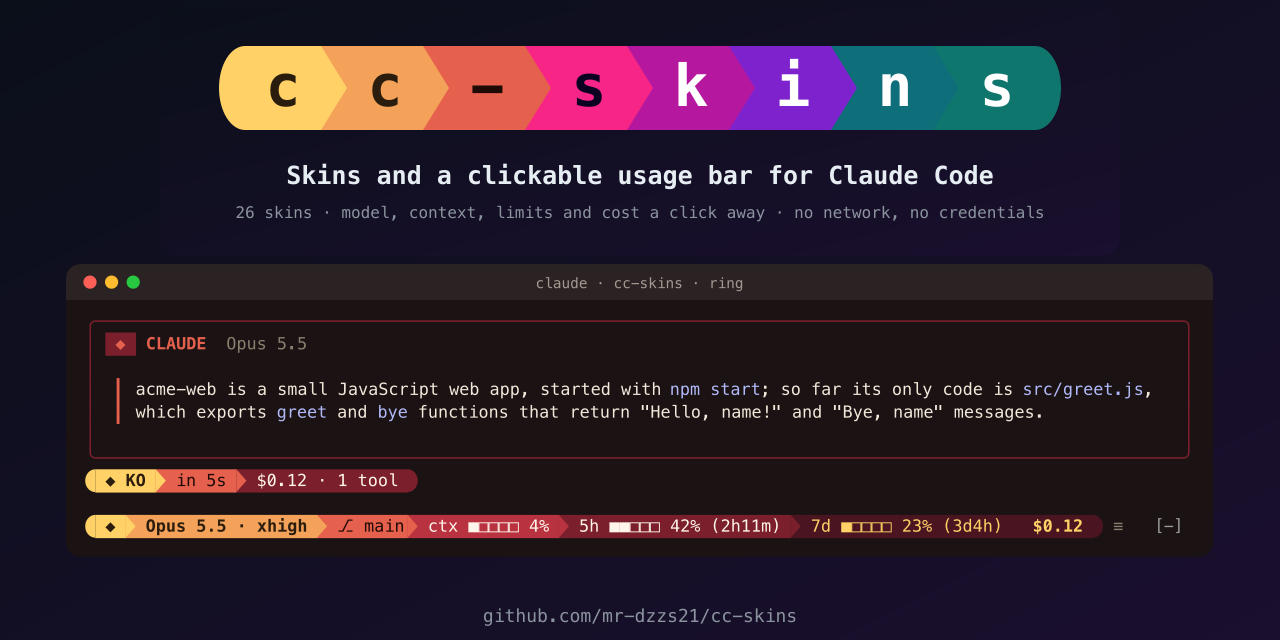
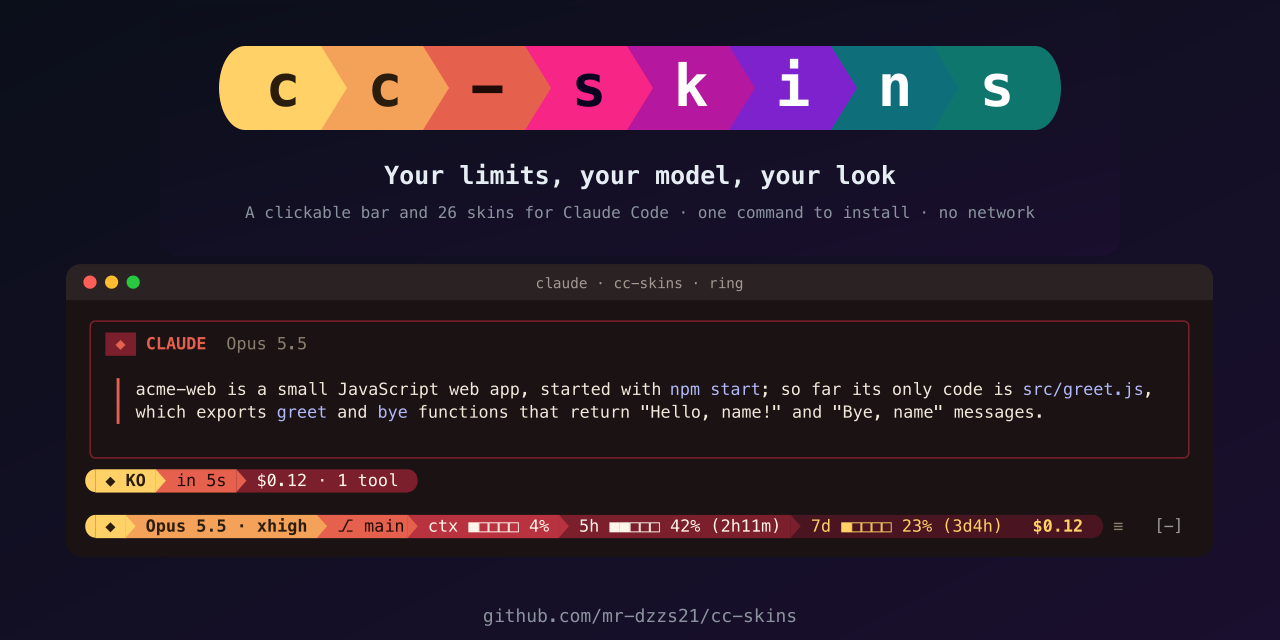
README: what it does first, one command to install
- The top says what you get, not what it is: see your limits, switch
  models in a click, make Claude Code yours. Three columns, See, Control,
  Look, right under the install.
- Install is one command, the same everywhere, over HTTPS:
  claude plugin install cc-skins --marketplace https://github.com/mr-dzzs21/cc-skins.git
  Fonts, colors, updating and removing fold away below.
- The banner and social preview say it too; CI installs with that command.

Changed region(s): [[0.1875, 0.25, 0.8125, 0.3438]]

diff --git a/scripts/render_previews.ts b/scripts/render_previews.ts
@@ -155,12 +155,12 @@ const renderBanner = (): string => {
   })
 
   return [
-    `<svg xmlns="http://www.w3.org/2000/svg" width="${width}" height="${height}" viewBox="0 0 ${width} ${height}" font-family="${FONTS}" role="img" aria-label="cc-skins: skins and a clickable usage bar for Claude Code">`,
+    `<svg xmlns="http://www.w3.org/2000/svg" width="${width}" height="${height}" viewBox="0 0 ${width} ${height}" font-family="${FONTS}" role="img" aria-label="cc-skins: your limits, your model, your look. A clickable bar and skins for Claude Code">`,
     `<defs><linearGradient id="night" x1="0" y1="0" x2="1" y2="1"><stop offset="0" stop-color="#0b0f1a"/><stop offset="1" stop-color="#1a0f2e"/></linearGradient></defs>`,
     `<rect width="${width}" height="${height}" rx="18" fill="url(#night)"/>`,
     ...parts,
-    `<text x="${width / 2}" y="${y + tall + 54}" fill="#e6edf3" font-size="25" font-weight="700" text-anchor="middle">Skins and a clickable usage bar for Claude Code</text>`,
-    `<text x="${width / 2}" y="${y + tall + 88}" fill="#8b949e" font-size="16" text-anchor="middle">${Object.keys(SKINS).length} skins · model, context, limits and cost a click away · no network, no credentials</text>`,
+    `<text x="${width / 2}" y="${y + tall + 54}" fill="#e6edf3" font-size="25" font-weight="700" text-anchor="middle">Your limits, your model, your look</text>`,
+    `<text x="${width / 2}" y="${y + tall + 88}" fill="#8b949e" font-size="16" text-anchor="middle">A clickable bar and ${Object.keys(SKINS).length} skins for Claude Code · one command to install · no network</text>`,
     `</svg>`,
     '',
   ].join('\n')

diff --git a/README.md b/README.md
@@ -2,77 +2,71 @@
 
 <p align="center">
   <a href="https://github.com/mr-dzzs21/cc-skins/actions/workflows/ci.yml"><img src="https://github.com/mr-dzzs21/cc-skins/actions/workflows/ci.yml/badge.svg" alt="CI"></a>
-  <a href="LICENSE"><img src="https://img.shields.io/badge/license-MIT-blue.svg" alt="License: MIT"></a>
-  <img src="https://img.shields.io/badge/Claude_Code-2.1.295%2B-d97757.svg" alt="Claude Code 2.1.295 or newer">
   <img src="https://img.shields.io/badge/macOS_·_Windows_·_Linux-555.svg" alt="macOS, Windows, Linux">
   <img src="https://img.shields.io/badge/network-none-2ea043.svg" alt="No network">
+  <a href="LICENSE"><img src="https://img.shields.io/badge/license-MIT-blue.svg" alt="License: MIT"></a>
 </p>
 
-<p align="center"><b>Skins and a clickable usage bar for <a href="https://code.claude.com">Claude Code</a>.</b><br>
-Your chat as cards, a bar that keeps model, context, limits and cost in view, one click to change what you see.</p>
+<h3 align="center">See your limits. Switch models in a click. Make Claude Code yours.</h3>
 
 <p align="center"><img src="docs/hero.svg" alt="A real Claude Code session with cc-skins: your message and Claude's reply as framed cards, the turn line with its cost, and the usage bar above the prompt, fading through nine skins" width="100%"></p>
-<p align="center"><sub>A real session, recorded in nine of the 26 skins.</sub></p>
-
-<p align="center">
-  <a href="#install"><b>Install</b></a> ·
-  <a href="#a-quick-tour"><b>Tour</b></a> ·
-  <a href="#skins"><b>Skins</b></a> ·
-  <a href="#commands"><b>Commands</b></a> ·
-  <a href="#help"><b>Help</b></a> ·
-  <a href="docs/README.md"><b>Docs</b></a>
-</p>
+<p align="center"><sub>A real session, in nine of the 26 skins.</sub></p>
 
 ## Install
 
-**1. Get Claude Code** 2.1.295 or newer ([setup guide](https://code.claude.com/docs)). Already have it? `claude update`, and `claude --version` tells which you have. The stable update channel can be a week or two behind: switch to latest in `/config` → Auto-update channel (with Homebrew: the `claude-code@latest` cask).
-
-| macOS, Linux | Windows (PowerShell) |
-|---|---|
-| `curl -fsSL https://claude.ai/install.sh \| bash` | `irm https://claude.ai/install.ps1 \| iex` |
-
-**2. Install cc-skins**, the same on every system. In Claude Code, type:
-
-```
-/plugin install cc-skins --marketplace mr-dzzs21/cc-skins
-```
-
-Answer `y` to add the marketplace and pick the **user** scope, so every project gets it. Or from a terminal:
+One command, the same on macOS, Windows and Linux:
 
 ```sh
-claude plugin marketplace add https://github.com/mr-dzzs21/cc-skins.git
-claude plugin install cc-skins@cc-skins
+claude plugin install cc-skins --marketplace https://github.com/mr-dzzs21/cc-skins.git
 ```
 
-**3. Pick a skin:** type `/skin`. ↑↓ previews each skin as you land on it, Enter picks it.
+Then open Claude Code and type **`/skin`** to pick a look. That's it.
 
-**4. Optional, for the full look:** icons from a [Nerd Font](https://www.nerdfonts.com), and colors for the rest of the window.
+<sub>Needs Claude Code 2.1.295 or newer: `claude update` gets it. More options, updating and removing: <a href="#more-about-installing">below</a>.</sub>
 
-| | Icons | Colors |
-|---|---|---|
-| **macOS** | `brew install --cask font-meslo-lg-nerd-font`, pick *MesloLGM Nerd Font* in your terminal | Ghostty or iTerm2 scheme from [`extras/terminal`](extras/terminal) |
-| **Windows** | Works with Windows Terminal's Cascadia Code as it is (arrows, short words for icons). For icons: *CaskaydiaCove Nerd Font* from [nerdfonts.com](https://www.nerdfonts.com/font-downloads), then Windows Terminal → Settings → your profile → Appearance → Font face | |
-| **Linux** | A Nerd Font from [nerdfonts.com](https://www.nerdfonts.com/font-downloads) into `~/.local/share/fonts`, `fc-cache -f`, pick it in your terminal | Ghostty scheme from [`extras/terminal`](extras/terminal) |
+## What you get
 
-With a Nerd Font set, type `/skin glyphs nerd`. For Claude Code's own colors, open `/theme` and pick `cc-skins · <your skin>`.
+<table>
+<tr>
+<td width="33%" valign="top">
 
-| To | Do |
-|---|---|
-| Update | `claude plugin marketplace update cc-skins` and `claude plugin update cc-skins@cc-skins`, then restart Claude Code |
-| Hide it for a moment | `/skin hud off` (the bar) and `/skin chat off` (the cards); `on` brings them back |
-| Turn it off | `claude plugin disable cc-skins@cc-skins` (`enable` turns it back on) |
-| Uninstall | `claude plugin uninstall cc-skins@cc-skins` |
+### 👀 See
 
-## Why cc-skins
+- Your **5-hour and 7-day limits**, with when they reset
+- How full the **context** is
+- **Model**, **effort** and **cost**
+- Your **git branch**, and what changed
+- What each answer took: time, cost, tools
 
-- **A bar you can click.** Model and effort, branch, context, the 5-hour and 7-day limits, cost: each block opens what it shows.
-- **The whole UI, not one line.** Chat cards, the spinner's and turn line's words, a matching color theme.
-- **No network, no credentials.** Every figure comes from Claude Code itself.
-- **Yours to shape.** Every block on or off, extras like git status or cost per hour, your own skins from one color.
+</td>
+<td width="33%" valign="top">
+
+### 🖱 Control
+
+- **Click the model** to switch model or effort
+- **Click the context** for a usage dashboard
+- **Compact** with one click when the context is full
+- **Click the branch** for the changed files
+- A **sound and a notification** when a long answer is done (if you want them)
+
+</td>
+<td width="33%" valign="top">
+
+### 🎨 Look
+
+- **26 skins**, dark, vivid and light
+- Your chat as **cards**, a spinner with its own words
+- **Build your own**: every piece its own color
+- **Share** a skin as one line
+- Turn **any piece** on or off
+
+</td>
+</tr>
+</table>
+
+No account, no API key, no network: everything comes from Claude Code itself.
 
 ## A quick tour
-
-Every picture here is a real Claude Code session, recorded in a terminal ([how](scripts/screens)).
 
 <table>
 <tr>
@@ -81,11 +75,11 @@ Every picture here is a real Claude Code session, recorded in a terminal ([how](
 
 ### Pick a skin
 
-`/skin`, or a click on the bar's first block. ↑↓ previews each skin as you land on it, in the picker and in the real bar; Enter picks. A skin's key or a click previews it too, and the same again picks it. Esc goes back to the one you had.
+`/skin`, or a click on the bar's first block. Use ↑↓ to preview each skin live, Enter to keep it.
 
 ### Make your own
 
-`/skin create` starts from the skin you wear. Make every color from one accent, or color each piece on its own: the model blue, the clock red, your name gold. Quicker: `/skin color clock red`. Every text stays readable, and `/skin export` shares your skin as one line of JSON.
+`/skin create`, or straight from the prompt: `/skin color clock red`. Every text stays readable, and `/skin export` shares your skin.
 
 </td>
 </tr>
@@ -93,69 +87,82 @@ Every picture here is a real Claude Code session, recorded in a terminal ([how](
 
 <table>
 <tr>
-<td width="50%"><b>Model and effort</b>: a click on the model<br><img src="docs/screens/model.svg" alt="The model and effort picker: the models with their aliases, the current one marked, and the effort levels as buttons" width="100%"></td>
-<td width="50%"><b>Usage dashboard</b>: a click on the context or cost<br><img src="docs/screens/dashboard.svg" alt="The usage dashboard: the context with its trend and a breakdown, the 5-hour and 7-day limits, the cost per turn, the session's totals" width="100%"></td>
+<td width="50%"><b>Switch model and effort</b><br><img src="docs/screens/model.svg" alt="The model and effort picker: the models with their aliases, the current one marked, and the effort levels as buttons" width="100%"></td>
+<td width="50%"><b>Usage dashboard</b><br><img src="docs/screens/dashboard.svg" alt="The usage dashboard: the context with its trend and a breakdown, the 5-hour and 7-day limits, the cost per turn, the session's totals" width="100%"></td>
 </tr>
 <tr>
-<td width="50%"><b>Settings</b>: a click on the ⚙, each piece on or off<br><img src="docs/screens/settings.svg" alt="The settings on the Bar tab: a checkbox for each piece of the bar" width="100%"></td>
-<td width="50%"><b>Alerts</b>: when to warn, and in which colors<br><img src="docs/screens/alerts.svg" alt="The settings on the Alerts tab: warn at 70, 80 or 90 percent, the compact button, the warning colors" width="100%"></td>
-</tr>
-<tr>
-<td width="50%"><b>Every piece its own color</b>: <code>/skin color</code><br><img src="docs/screens/builder-colors.svg" alt="The skin builder's bar colors: every block in a row in its colors, the model set to blue and the clock to red" width="100%"></td>
-<td width="50%"><b>Changed files</b>: a click on the branch<br><img src="docs/screens/changes.svg" alt="The changed files: the branch, the line totals, each changed file" width="100%"></td>
+<td width="50%"><b>Every piece its own color</b><br><img src="docs/screens/builder-colors.svg" alt="The skin builder's bar colors: every block in a row in its colors, the model set to blue and the clock to red" width="100%"></td>
+<td width="50%"><b>Choose what the bar shows</b><br><img src="docs/screens/settings.svg" alt="The settings on the Bar tab: a checkbox for each piece of the bar" width="100%"></td>
 </tr>
 </table>
 
-Two bar styles: colored powerline blocks, or a quiet header line (`/skin bar header`):
-
-<p><img src="docs/screens/bar-header.svg" alt="The header style: the skin and model at the left, the session time, branch, context and cost in the middle, the limits as badges at the right" width="100%"></p>
-
-As a limit or the context fills up, its block turns warning-colored at 60 % and alarm-colored at 85 % (or only at 85 %, or never):
+Warnings before you hit a limit, as blocks turn yellow and red:
 
 <p><img src="docs/screens/bar-alerts.svg" alt="The bar with the 5-hour limit at 72 percent in yellow and the 7-day limit at 91 percent in red" width="100%"></p>
 
-And the extras, off until you turn them on: git status on the branch, context tokens, cost per hour, and session time, clock and Claude Code version:
+Extras when you want more: git status, tokens, cost per hour, session time, clock:
 
-<p><img src="docs/screens/bar-extras.svg" alt="The bar with every extra on: the branch with files changed, the context with its tokens, the cost with its rate per hour, and an info block with session time, clock and version" width="100%"></p>
-
-More on every block, the extras and how current the limits are: [The bar](docs/bar.md).
+<p><img src="docs/screens/bar-extras.svg" alt="The bar with every extra on: the branch with files changed, the context with its tokens, the cost with its rate per hour, and session time, clock and version" width="100%"></p>
 
 ## Skins
 
-Twenty-six built in: twelve vivid, eight dark, six for light terminals.
-
 <p align="center"><img src="docs/skins.svg" alt="The usage bar in each of the 26 built-in skins: twelve vivid, eight dark, six light" width="100%"></p>
 
-Each skin's words, what a skin changes, and your own skins: [Skins](docs/skins.md).
+All of them with their words, and how to build your own: [Skins](docs/skins.md).
 
 ## Commands
 
-| Command | Does |
+| Type | To |
 |---|---|
 | `/skin` | Pick a skin |
-| `/skin model` | Model and effort |
-| `/skin bar` | Settings: what the bar shows, its look, alerts, the turn line, sound |
-| `/skin usage` | Usage dashboard |
+| `/skin model` | Switch model and effort |
+| `/skin usage` | Open the usage dashboard |
+| `/skin bar` | Choose what the bar shows |
 | `/skin create` | Build your own skin |
-| `/skin color <piece> <color>` | One piece its own color, such as `/skin color clock red` |
-| `/skin show <item>` / `/skin hide <item>` | One piece of the bar on or off, such as `cost` or the extra `clock` |
-| `/skin hud off` / `/skin hud on` | Hide or show the bar |
+| `/skin color clock red` | Give one piece its own color |
+| `/skin doctor` | Check that everything is right |
 
-All of them: [Commands](docs/commands.md).
+Or just click the bar. [All commands](docs/commands.md)
+
+## More about installing
+
+<details>
+<summary><b>Icons and colors for the whole window</b> (optional)</summary>
+
+| | Icons: a [Nerd Font](https://www.nerdfonts.com) | Window colors |
+|---|---|---|
+| **macOS** | `brew install --cask font-meslo-lg-nerd-font`, pick *MesloLGM Nerd Font* in your terminal | Ghostty or iTerm2 scheme from [`extras/terminal`](extras/terminal) |
+| **Windows** | Works as it is with Windows Terminal. For icons: *CaskaydiaCove Nerd Font* from [nerdfonts.com](https://www.nerdfonts.com/font-downloads), then Settings → your profile → Appearance → Font face | |
+| **Linux** | A Nerd Font from [nerdfonts.com](https://www.nerdfonts.com/font-downloads) into `~/.local/share/fonts`, then `fc-cache -f` | Ghostty scheme from [`extras/terminal`](extras/terminal) |
+
+With a Nerd Font set, type `/skin glyphs nerd`. For Claude Code's own colors: `/theme` → `cc-skins · <your skin>`.
+</details>
+
+<details>
+<summary><b>Update, pause or remove</b></summary>
+
+| To | Run |
+|---|---|
+| Update | `claude plugin marketplace update cc-skins`, then `claude plugin update cc-skins@cc-skins`, and restart Claude Code |
+| Hide it for a moment | `/skin hud off` and `/skin chat off` (`on` brings them back) |
+| Turn it off | `claude plugin disable cc-skins@cc-skins` |
+| Remove it | `claude plugin uninstall cc-skins@cc-skins` |
+</details>
+
+<details>
+<summary><b>Install from inside Claude Code, or an older Claude Code</b></summary>
+
+Inside Claude Code, the same works as a slash command: `/plugin install cc-skins --marketplace https://github.com/mr-dzzs21/cc-skins.git`.
+
+cc-skins needs Claude Code 2.1.295 or newer, and tells you when yours is older. `claude --version` shows yours. The stable update channel can be a week or two behind: switch to latest in `/config` → Auto-update channel (with Homebrew: the `claude-code@latest` cask), or run `claude install latest`.
+</details>
 
 ## Help
 
-- **The bar doesn't show:** in a Claude Code that was already running, type `/reload-plugins`. Still nothing: `claude plugin enable cc-skins@cc-skins`.
-- **Boxes or question marks instead of icons:** your font has no Nerd Font icons. Type `/skin glyphs powerline` (arrows only) or `/skin glyphs plain`, or set up a Nerd Font (step 4).
-- **Claude Code's own colors didn't change:** `/theme` → `cc-skins · <your skin>`.
-- **Anything else:** `/skin doctor` shows what cc-skins sees and what to do; paste it into a [bug report](https://github.com/mr-dzzs21/cc-skins/issues/new?template=bug_report.yml).
+- **Nothing shows?** In a Claude Code that was already open, type `/reload-plugins`.
+- **Boxes or question marks instead of icons?** Type `/skin glyphs powerline`.
+- **Anything else?** `/skin doctor` shows what's wrong. Still stuck? [Open an issue](https://github.com/mr-dzzs21/cc-skins/issues/new?template=bug_report.yml) with its output.
 
-More: [Questions and fixes](docs/faq.md) · [How cc-skins stays working](docs/stability.md).
+[Questions and fixes](docs/faq.md) · [All docs](docs/README.md) · [How it stays working](docs/stability.md) · [Privacy](docs/privacy.md) · [vs. status lines](docs/comparison.md) · [Contributing](CONTRIBUTING.md) · [Changelog](CHANGELOG.md)
 
-## More
-
-[Docs](docs/README.md) · [Stability](docs/stability.md) · [Privacy and safety](docs/privacy.md) · [cc-skins and status line tools](docs/comparison.md) · [Development](docs/development.md) · [Contributing](CONTRIBUTING.md) · [Changelog](CHANGELOG.md)
-
-## License
-
-[MIT](LICENSE)
+<p align="center"><sub>MIT licensed · made for <a href="https://code.claude.com">Claude Code</a> · not affiliated with Anthropic</sub></p>
